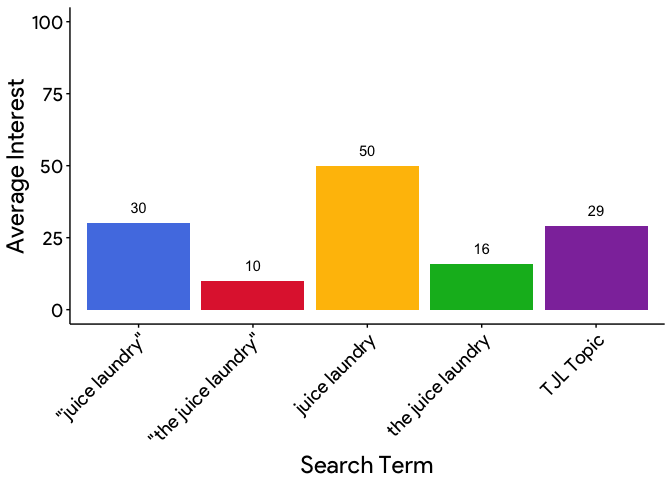
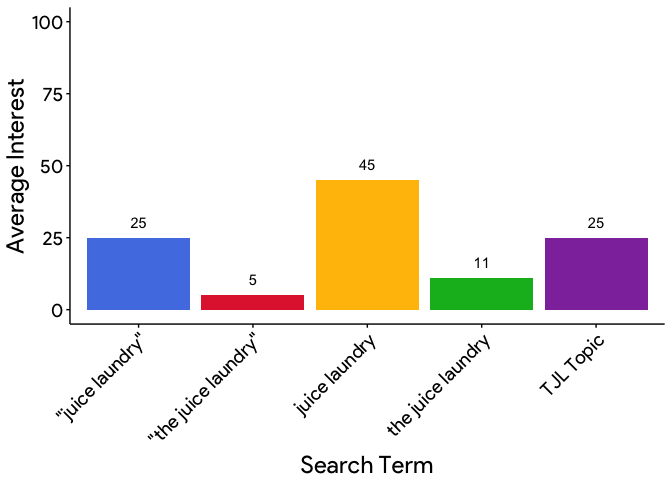
helper function

diff --git a/google-trends-guide.md b/google-trends-guide.md
@@ -6,11 +6,12 @@ A manual for *intelligent*, *reproducible*, and *programmatic* analysis of *Goog
 -   [Understanding *Google Trends*](#understanding-google-trends)
 -   [Navigating the User Interface (UI)](#navigating-the-user-interface-ui)
 -   [Testing the `gtrendsR` package](#testing-the-gtrendsr-package)
--   [Replicating the *Google Trends* visuals](#replicating-the-google-trends-visuals)
--   [*TJL* Search Terms Analysis](#tjl-search-terms-analysis)
+-   [`get_gtrends_url` function](#get_gtrends_url-function)
+-   [Replicating the UI](#replicating-the-ui)
+-   [*TJL* search terms analysis](#tjl-search-terms-analysis)
 -   [`thejuicelaundry` dataset](#thejuicelaundry-dataset)
--   [Corner Juice Search Terms Comparision](#corner-juice-search-terms-comparision)
--   [Corner Juice vs. TJL](#corner-juice-vs.-tjl)
+-   [*Corner Juice* search terms comparision](#corner-juice-search-terms-comparision)
+-   [*Corner Juice* vs. *TJL*](#corner-juice-vs.-tjl)
 
 ------------------------------------------------------------------------
 
@@ -22,7 +23,7 @@ Then you can start to use it, first through the User Interface (UI) found <a hre
 
 The benefits of using an R package are numerous and will become more and more apparent throughout this guide. To summarize, an R package allows your analysis to be more *intelligent*, *reproducible*, and *programmatic*.
 
-We will walk you through using Google Trends, pointing out some nuances along the way, and then we will show you how to generate the same exact data (and even the same visuals) with the `gtrendsR` package. We will apply everything to *The Juice Laundry* (TJL), demonstrating methods to extract data that is most useful and most accurate, and comparing that data to local competition, namely *Corner Juice*.
+We will walk you through using Google Trends, pointing out some nuances along the way, and then we will show you how to generate the same exact data (and even the same visuals) with the `gtrendsR` package. We will apply everything to <a href="https://www.thejuicelaundry.com" target="blank">*The Juice Laundry*</a> (TJL), demonstrating methods to extract data that is most useful and most accurate, and comparing that data to local competition, namely *Corner Juice*.
 
 ------------------------------------------------------------------------
 
@@ -125,19 +126,22 @@ library(tidyverse)
 Assign the time period and search terms we used in the UI. The topic (represented in the URL as a code) must be decoded.
 
 ``` r
-time_span <- "2016-10-09 2018-12-31"
-topic_url <- "q=%2Fg%2F12m9gwg0k"
+start_date <- "2016-10-09"
+end_date <- "2018-12-31"
+country <- "US"
+time_span <- str_c(start_date, end_date, sep = " ")
+topic_url <- "%2Fg%2F12m9gwg0k"
 search_terms <- c("the juice laundry", 
                   '"the juice laundry"', 
                   "juice laundry",
                   '"juice laundry"', 
-                  gsub("q=", "", URLdecode(topic_url)))
+                  URLdecode(topic_url))
 ```
 
 Run gtrendsR and I recommend saving the interest\_over\_time dataframe (the only one we are concerned with) as a csv file with today's date.
 
 ``` r
-gtrends_list <- gtrends(search_terms, geo = "US", time = time_span)
+gtrends_list <- gtrends(search_terms, country, time = time_span)
 
 # write_csv(gtrends_list[["interest_over_time"]], paste0(Sys.Date(), "-google-trends-gtrendsr.csv"))
 ```
@@ -154,9 +158,7 @@ gtrends <- gtrends_list[["interest_over_time"]] %>%
 
 gtrends$week_of <- as.Date(gtrends$week_of) # Rather than datetime default
 gtrends$relative_interest <- as.double(gtrends$relative_interest) # Not Int
-gtrends[gtrends$search_term == gsub("q=", "", 
-                                    URLdecode(topic_url)), 
-        "search_term"] <- "TJL Topic"
+gtrends[gtrends$search_term == URLdecode(topic_url), "search_term"] <- "TJL Topic"
 ```
 
 ``` r
@@ -218,7 +220,52 @@ setequal(google_trends, gtrends)
 
 ------------------------------------------------------------------------
 
-### Replicating the *Google Trends* visuals
+### `get_gtrends_url` function
+
+Enter the parameters you desire and retrieve the URL for that exact *Google Trends* UI. Here you do not need to decode the topic terms. Then again, topic terms are not practical for this function considering you need the URL to get their codes in the first place.
+
+``` r
+start_date <- "2016-10-09"
+end_date <- "2018-12-31"
+country <- "US"
+search_terms <- c("the juice laundry", 
+                  '"the juice laundry"', 
+                  "juice laundry",
+                  '"juice laundry"', 
+                  "%2Fg%2F12m9gwg0k")
+
+get_gtrends_url <- function(start_date, end_date, country, search_terms) {
+  search_terms <- gsub(" ", "%20", search_terms)
+  search_terms <- gsub('"', "%22", search_terms)
+  str_c(
+    str_c(
+      "https://trends.google.com/trends/explore?date=",
+      start_date,
+      "%20",
+      end_date,
+      "&geo=",
+      country,
+      "&q="
+    ),
+    str_c(
+      search_terms[1],
+      if(length(search_terms) >= 2) {search_terms[2]},
+      if(length(search_terms) >= 3) {search_terms[3]},
+      if(length(search_terms) >= 4) {search_terms[4]},
+      if(length(search_terms) >= 5) {search_terms[5]},
+      sep = ","
+    )
+  )
+}
+
+get_gtrends_url(start_date, end_date, country, search_terms)
+```
+
+    ## [1] "https://trends.google.com/trends/explore?date=2016-10-09%202018-12-31&geo=US&q=the%20juice%20laundry,%22the%20juice%20laundry%22,juice%20laundry,%22juice%20laundry%22,%2Fg%2F12m9gwg0k"
+
+------------------------------------------------------------------------
+
+### Replicating the UI
 
 The next objective is to replicate the UI's line graph and bar graph within the RStudio IDE.
 
@@ -252,7 +299,8 @@ lg <- ggplot(
   labs(x = 'Month', 
        y = 'Relative Interest', 
        color = 'Search Term', 
-       subtitle = "juice laundry is consistently the most searched")
+       subtitle = "juice laundry is consistently the most searched",
+       caption = "https://goo.gl/FZPu18")
   
 lg
 ```
@@ -305,11 +353,11 @@ avg_trend
     ## # A tibble: 5 x 2
     ##   search_term             avg_interest
     ##   <chr>                          <dbl>
-    ## 1 "\"juice laundry\""               30
-    ## 2 "\"the juice laundry\""           10
-    ## 3 juice laundry                     50
-    ## 4 the juice laundry                 16
-    ## 5 TJL Topic                         29
+    ## 1 "\"juice laundry\""               25
+    ## 2 "\"the juice laundry\""            5
+    ## 3 juice laundry                     45
+    ## 4 the juice laundry                 11
+    ## 5 TJL Topic                         25
 
 Construct a draft for the bar graph. Remember that bar graphs with y variables specified must clarify that `stat = 'identity'`.
 
@@ -341,7 +389,7 @@ bar_graph
 
 ![](google-trends-guide_files/figure-markdown_github/Google%20Bar%20Graph-1.png)
 
-**<u>*Replicating the UI*</u>**
+**<u>*Mocking the UI*</u>**
 
 Now we can arrange both graphs side by side as they appear in the UI. It did require some guessing-and-checking in order to decide the scaling that was best.
 
@@ -357,13 +405,13 @@ Here is the example UI again for comparision:
 
 ------------------------------------------------------------------------
 
-### *TJL* Search Terms Analysis
+### *TJL* search terms analysis
 
 One of the main purposes of Google Trends is to benchmark relative search interest against relative search interest throughout the past. That said, the next objective is to decide which of the TJL search terms is most appropriate to follow and use as the standard. We could simply resort to the Topic search and trust that the Google algorithm knows best, but since not all entities have a Topic as defined by Google (*Corner Juice* for example), it might be intuitive to find the search term that draws a relative interest most similar to that of the Topic. That way, we can observe what features of a search are best when the entity we search for has no Topic. For instance, do the most accurate search terms contain all words in the entity's official name or only the vital ones? Are the terms most accurate when surrounded in quotes? Etcetera.
 
 Before we start to compare the TJL search terms and their similarity to the *TJL* Topic, we must ensure that the data is reliable by taking many samples. Here, you will begin to see the advantage of using R and `gtrendsR` to analyze Google Trends data.
 
-<u>Sampling for Reliability</u>
+**<u>Sampling for Reliability</u>**
 
 Since 24 hours must pass before a new sample with new data is generated, I will provide thirteen samples (with the same parameters as above). All samples were collected as csv files after I ran `gtrendsR` on thirteen seperate days during the end of February and beginning of March 2019.
 
@@ -427,31 +475,18 @@ sample_average$week_of <- as.Date(sample_average$week_of)
 gtrends[sample_average$search_term == gsub("q=", "", 
                                     URLdecode(topic_url)), 
         "search_term"] <- "TJL Topic"
+```
 
+``` r
 sample_average
 ```
 
-    ## # A tibble: 585 x 3
-    ##    week_of    search_term  average_relative_interest
-    ##    <date>     <chr>                            <dbl>
-    ##  1 2016-10-09 /g/12m9gwg0k                     10.7 
-    ##  2 2016-10-16 /g/12m9gwg0k                     20.2 
-    ##  3 2016-10-23 /g/12m9gwg0k                     17.8 
-    ##  4 2016-10-30 /g/12m9gwg0k                     11.8 
-    ##  5 2016-11-06 /g/12m9gwg0k                      3.85
-    ##  6 2016-11-13 /g/12m9gwg0k                     14.2 
-    ##  7 2016-11-20 /g/12m9gwg0k                     16.9 
-    ##  8 2016-11-27 /g/12m9gwg0k                     12.9 
-    ##  9 2016-12-04 /g/12m9gwg0k                     35.5 
-    ## 10 2016-12-11 /g/12m9gwg0k                     21.4 
-    ## # … with 575 more rows
+**<u>*Comparision via Correlation*:</u>**
 
-<u>*Comparision via Correlation*:</u>
-
-While one of the search terms may ("juice laundry" in my case) look like the obvious
+While one of the search terms ("juice laundry" in my case) may look like the obvious
 
 ### `thejuicelaundry` dataset
 
-### Corner Juice Search Terms Comparision
+### *Corner Juice* search terms comparision
 
-### Corner Juice vs. TJL
+### *Corner Juice* vs. *TJL*
